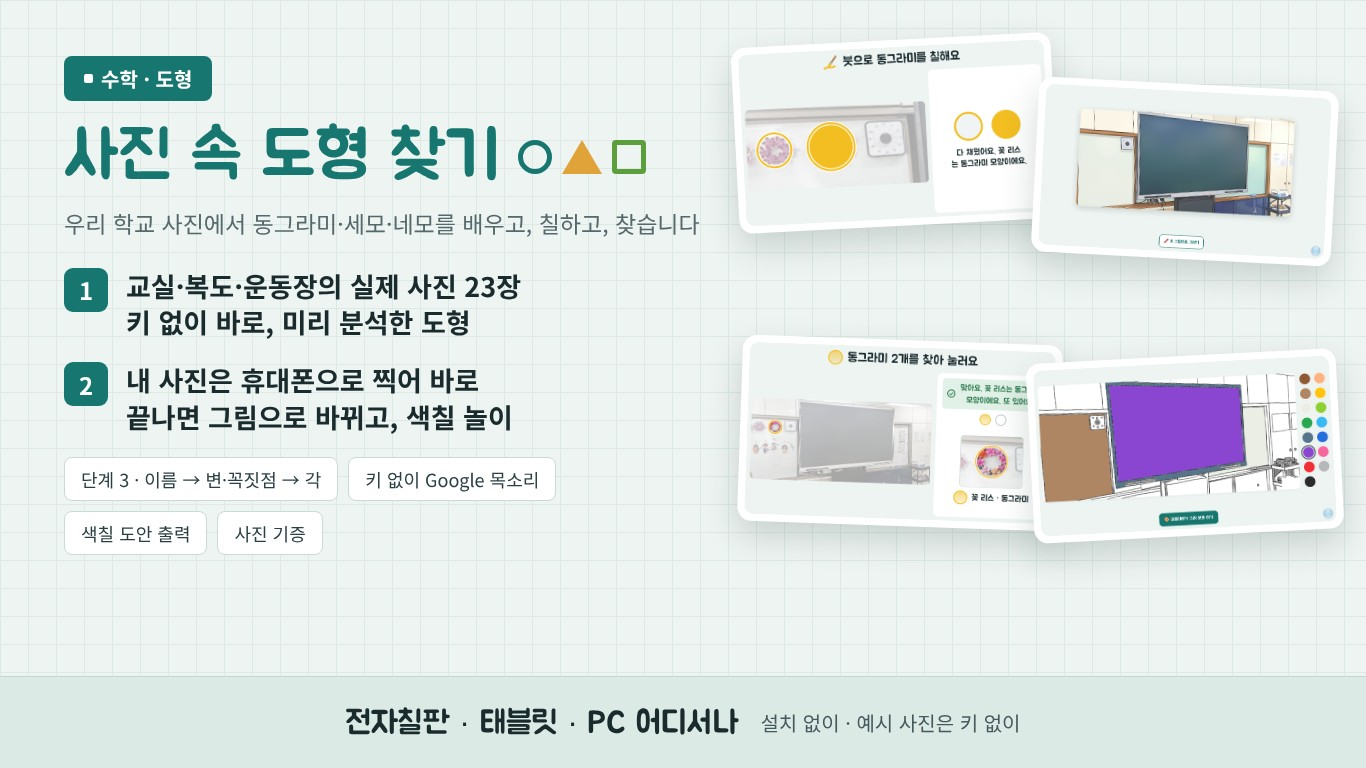
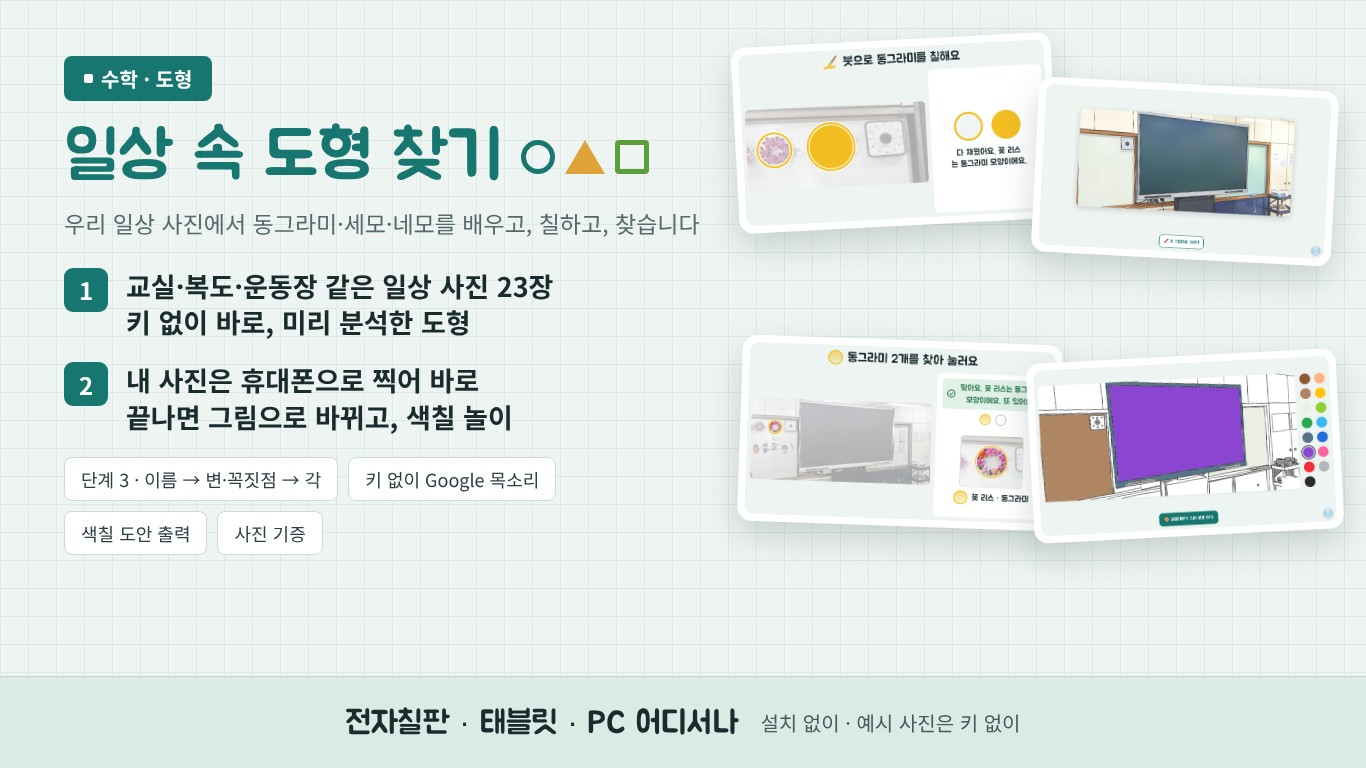
001 이름 '일상 속 도형 찾기'(앱 제목·불러오기·설명서·자세한 설명·홍보 그림·첫 화면 캡처, 파일 이름은 그대로)
Claude-Session: https://claude.ai/code/session_01CUt13BUndsbco2DGQb7Riu

diff --git a/001/shape-finder_manual.html b/001/shape-finder_manual.html
@@ -1,35 +1,62 @@
 <div style="max-width:820px;margin:0 auto;font-family:'Noto Sans KR',sans-serif;color:#1A2B2E;line-height:1.6;font-size:16px;">
+<p style="margin:0 0 14px;color:#55686B;font-size:15px;line-height:1.7;">교실&middot;복도&middot;운동장, 집 등 우리 일상에서 찍은 <b>실제 사진</b> 속 물건으로 동그라미&middot;세모&middot;네모를 배우고, 붓으로 칠하고, 직접 찾는 앱입니다. 다 하면 사진이 그림으로 바뀌고, 그 그림에 색칠할 수 있습니다.</p>
 
-<p style="margin:0 0 14px;color:#55686B;font-size:15px;line-height:1.7;">교실·복도·운동장에서 찍은 <b>실제 사진</b> 속 물건으로 동그라미·세모·네모를 배우고, 붓으로 칠하고, 직접 찾는 앱입니다. 다 하면 사진이 그림으로 바뀌고, 그 그림에 색칠할 수 있습니다.</p>
+<div style="background:#E6F2EF;border:1px solid #B8DCD4;border-radius:12px;padding:12px 16px;margin:0 0 14px;color:#1F4A45;font-size:15px;line-height:1.7;">예시 사진 23장은 바로 사용할 수 있습니다(도형&middot;목소리&middot;그림&middot;색칠 도안을 미리 만들어 두었습니다). 내 사진은 <b>휴대폰에서 받기</b>로 찍어 보내고, 처음 한 번만 선생님의 Gemini 키를 함께 넣어 사용하실 수 있습니다(Gemini 키는&nbsp;무료로 받을 수 있습니다).</div>
 
-<div style="background:#E6F2EF;border:1px solid #B8DCD4;border-radius:12px;padding:12px 16px;margin:0 0 14px;color:#1F4A45;font-size:15px;line-height:1.7;"><b>새 판(2026-10-22)</b>: 예시 사진 23장은 <b>키 없이</b> 바로 씁니다(도형·목소리·그림·색칠 도안을 미리 만들어 두었습니다). 내 사진은 <b>휴대폰에서 받기</b>로 찍어 보내고, 처음 한 번만 선생님의 Gemini 키를 함께 넣습니다(무료로 받을 수 있습니다).</div>
+<p style="margin:0 0 14px;"><img alt="일상 속 도형 찾기" src="https://shim-sung-hyun.github.io/web_app/001/shape-finder-promo.jpg" style="width:100%;border-radius:14px;display:block;" /></p>
 
-<p style="margin:0 0 14px;"><img src="https://shim-sung-hyun.github.io/web_app/001/shape-finder-promo.jpg" alt="사진 속 도형 찾기" style="width:100%;border-radius:14px;display:block;"></p>
-
-<p style="text-align:center;margin:0 0 22px;"><a href="https://www.charum.org/study/001/shape-finder.html" target="_blank" style="display:inline-block;background:#17766F;color:#fff;font-weight:700;font-size:21px;padding:14px 40px;border-radius:12px;text-decoration:none;">▶ 바로 열기</a></p>
+<p style="text-align:center;margin:0 0 22px;"><a href="https://www.charum.org/study/001/shape-finder.html" style="display:inline-block;background:#17766F;color:#fff;font-weight:700;font-size:21px;padding:14px 40px;border-radius:12px;text-decoration:none;" target="_blank">▶ 바로 열기</a></p>
 
 <table style="width:100%;border-collapse:separate;border-spacing:10px 0;table-layout:fixed;">
-<tr>
-<td style="vertical-align:top;text-align:center;"><img src="https://shim-sung-hyun.github.io/web_app/001/shape-finder01.jpg" alt="설정" style="width:100%;border-radius:10px;border:1px solid #CBDAD7;"><div style="margin-top:6px;"><span style="display:inline-block;width:30px;height:30px;line-height:30px;border-radius:7px;background:#17766F;color:#fff;font-weight:700;">1</span></div><div style="font-weight:700;font-size:18px;">단계 · 사진 고르고 → 시작</div><div style="font-size:14px;color:#55686B;">예시 사진은 누르기만</div></td>
-<td style="vertical-align:top;text-align:center;"><img src="https://shim-sung-hyun.github.io/web_app/001/shape-finder06.jpg" alt="배우고 칠하기" style="width:100%;border-radius:10px;border:1px solid #CBDAD7;"><div style="margin-top:6px;"><span style="display:inline-block;width:30px;height:30px;line-height:30px;border-radius:7px;background:#17766F;color:#fff;font-weight:700;">2</span></div><div style="font-weight:700;font-size:18px;">보고 · 칠하고 · 찾습니다</div><div style="font-size:14px;color:#55686B;">끝나면 저절로 다음</div></td>
-<td style="vertical-align:top;text-align:center;"><img src="https://shim-sung-hyun.github.io/web_app/001/shape-finder09.jpg" alt="그림과 색칠" style="width:100%;border-radius:10px;border:1px solid #CBDAD7;"><div style="margin-top:6px;"><span style="display:inline-block;width:30px;height:30px;line-height:30px;border-radius:7px;background:#17766F;color:#fff;font-weight:700;">3</span></div><div style="font-weight:700;font-size:18px;">그림으로 · 색칠</div><div style="font-size:14px;color:#55686B;">사진이 그림이 되고, 그 그림에 색칠</div></td>
-</tr>
+	<tbody>
+		<tr>
+			<td style="vertical-align:top;text-align:center;"><img alt="설정" src="https://shim-sung-hyun.github.io/web_app/001/shape-finder01.jpg" style="width:100%;border-radius:10px;border:1px solid #CBDAD7;" />
+			<div style="margin-top:6px;"><span style="display:inline-block;width:30px;height:30px;line-height:30px;border-radius:7px;background:#17766F;color:#fff;font-weight:700;">1</span></div>
+
+			<div style="font-weight:700;font-size:18px;">단계 &middot; 사진 고르고 &rarr; 시작</div>
+
+			<div style="font-size:14px;color:#55686B;">예시 사진은 누르기만</div>
+			</td>
+			<td style="vertical-align:top;text-align:center;"><img alt="배우고 칠하기" src="https://shim-sung-hyun.github.io/web_app/001/shape-finder06.jpg" style="width:100%;border-radius:10px;border:1px solid #CBDAD7;" />
+			<div style="margin-top:6px;"><span style="display:inline-block;width:30px;height:30px;line-height:30px;border-radius:7px;background:#17766F;color:#fff;font-weight:700;">2</span></div>
+
+			<div style="font-weight:700;font-size:18px;">보고 &middot; 칠하고 &middot; 찾습니다</div>
+
+			<div style="font-size:14px;color:#55686B;">끝나면 저절로 다음</div>
+			</td>
+			<td style="vertical-align:top;text-align:center;"><img alt="그림과 색칠" src="https://shim-sung-hyun.github.io/web_app/001/shape-finder09.jpg" style="width:100%;border-radius:10px;border:1px solid #CBDAD7;" />
+			<div style="margin-top:6px;"><span style="display:inline-block;width:30px;height:30px;line-height:30px;border-radius:7px;background:#17766F;color:#fff;font-weight:700;">3</span></div>
+
+			<div style="font-weight:700;font-size:18px;">그림으로 &middot; 색칠</div>
+
+			<div style="font-size:14px;color:#55686B;">사진이 그림이 되고, 그 그림에 색칠</div>
+			</td>
+		</tr>
+	</tbody>
 </table>
 
 <div style="background:#F2F7F5;border:1px solid #CBDAD7;border-radius:12px;padding:12px 16px;margin:22px 0 0;">
-<table style="width:100%;border-collapse:collapse;"><tr>
-<td style="width:34%;vertical-align:middle;padding-right:12px;"><img src="https://shim-sung-hyun.github.io/web_app/001/shape-finder10.jpg" alt="선생님 메뉴" style="width:100%;border-radius:8px;border:1px solid #CBDAD7;"></td>
-<td style="vertical-align:middle;"><div style="font-weight:700;font-size:18px;margin-bottom:4px;">선생님 메뉴</div>
-<div>오른쪽 아래 유리알 <b>3초</b> → 왼쪽 위 <b>점</b> 누르기</div>
-<div style="font-size:14px;color:#55686B;">단계 고르기 · 소리 · 설정 · 같은 사진 한 번 더 · 색칠 도안 출력 · 기록</div></td>
-</tr></table>
+<table style="width:100%;border-collapse:collapse;">
+	<tbody>
+		<tr>
+			<td style="width:34%;vertical-align:middle;padding-right:12px;"><img alt="선생님 메뉴" src="https://shim-sung-hyun.github.io/web_app/001/shape-finder10.jpg" style="width:100%;border-radius:8px;border:1px solid #CBDAD7;" /></td>
+			<td style="vertical-align:middle;">
+			<div style="font-weight:700;font-size:18px;margin-bottom:4px;">선생님 메뉴</div>
+
+			<div>오른쪽 아래 유리알 <b>3초</b> &rarr; 왼쪽 위 <b>점</b> 누르기</div>
+
+			<div style="font-size:14px;color:#55686B;">단계 고르기 &middot; 소리 &middot; 설정 &middot; 같은 사진 한 번 더 &middot; 색칠 도안 출력 &middot; 기록</div>
+			</td>
+		</tr>
+	</tbody>
+</table>
 </div>
 
 <ul style="margin:18px 0 0;padding-left:20px;font-size:15px;color:#2C4044;">
-<li><b>단계</b>: 1 도형 이름(동그라미·세모·네모) → 2 변과 꼭짓점 → 3 각과 직각.</li>
-<li><b>내 사진</b>은 그 기기에 보관되어 다음에는 키 없이 다시 씁니다. 좋은 사진은 <b>기증</b>하면 살펴본 뒤 모든 선생님의 예시 사진이 됩니다. 학생 얼굴·이름이 보이는 사진은 넣지 마십시오.</li>
-<li><b>끝 화면</b>은 사진이 그림으로 바뀌는 것(기본)과 <b>바로 색칠</b> 가운데 고릅니다. 색칠 도안은 종이로 출력할 수도 있습니다.</li>
+	<li><b>단계</b>: 1 도형 이름(동그라미&middot;세모&middot;네모) &rarr; 2 변과 꼭짓점 &rarr; 3 각과 직각.</li>
+	<li><b>내 사진</b>은 그 기기에 보관되어 다음에는 키 없이 다시 씁니다. 좋은 사진은 <b>기증</b>하시면 관리자가 살펴본 뒤&nbsp;예시 사진으로 활용하겠습니다.&nbsp;절대 <strong>학생 얼굴&middot;이름이 보이는 사진은 넣지 마십시오.</strong></li>
+	<li><b>끝 화면</b>은 사진이 그림으로 바뀌는 것(기본)과 <b>바로 색칠</b> 가운데 고릅니다. 색칠 도안은 종이로 출력할 수도 있습니다.</li>
 </ul>
 
-<p style="text-align:center;margin:22px 0 0;"><a href="https://shim-sung-hyun.github.io/web_app/001/shape-finder_guide.html" target="_blank" style="display:inline-block;border:2px solid #17766F;color:#17766F;font-weight:700;font-size:17px;padding:10px 26px;border-radius:12px;text-decoration:none;">자세한 설명 보기 →</a></p>
+<p style="text-align:center;margin:22px 0 0;"><a href="https://shim-sung-hyun.github.io/web_app/001/shape-finder_guide.html" style="display:inline-block;border:2px solid #17766F;color:#17766F;font-weight:700;font-size:17px;padding:10px 26px;border-radius:12px;text-decoration:none;" target="_blank">자세한 설명 보기 &rarr;</a></p>
 </div>

diff --git a/001/shape-finder.html b/001/shape-finder.html
@@ -3,7 +3,7 @@
 <head>
 <meta charset="utf-8">
 <meta name="viewport" content="width=device-width, initial-scale=1, viewport-fit=cover">
-<title>사진 속 도형 찾기</title>
+<title>일상 속 도형 찾기</title>
 <link rel="preconnect" href="https://fonts.googleapis.com">
 <link rel="preconnect" href="https://fonts.gstatic.com" crossorigin>
 <link rel="stylesheet" href="https://fonts.googleapis.com/css2?family=Jua&family=Noto+Sans+KR:wght@400;500;700&display=swap">
@@ -1593,7 +1593,7 @@ function showSetup(o={}){
   const sum=()=>[S.showSec+'초', S.paint?'칠하기 켬':'칠하기 끔', S.cartoonOn?'끝: 그림':'끝: 색칠', S.errorMode==='show'?'바로 정답':'한 번 더 기회', voiceName(S.engine)].join(' · ');
   const lv=[[1,'1단계 · 도형 이름','동그라미·세모·네모의 이름을 배우고 찾아요.'],[2,'2단계 · 변과 꼭짓점','원·삼각형·사각형의 변과 꼭짓점을 세어요.'],[3,'3단계 · 각','각을 세고 직각을 찾아요.']];
   main.innerHTML=`<section class="setup-page math">
-    <header class="m-head"><div class="m-title"><h1>사진 속 도형 찾기</h1><span class="m-mark" aria-hidden="true"><i class="o"></i><i class="t"></i><i class="s"></i></span></div>
+    <header class="m-head"><div class="m-title"><h1>일상 속 도형 찾기</h1><span class="m-mark" aria-hidden="true"><i class="o"></i><i class="t"></i><i class="s"></i></span></div>
       <p class="lead">사진 속 물건에서 도형을 찾아 배우고, 칠하고, 직접 찾아요.</p></header>
 
     <div class="card" id="levelCard"><h2><span class="n">1</span>단계</h2>

diff --git a/001/cloud-key.html b/001/cloud-key.html
@@ -106,7 +106,7 @@ a{color:var(--accent);font-weight:700}
     <li><b class="ui">들어 보기</b>로 목소리가 나오는지 확인합니다.</li>
   </ol>
   <p><b>전자칠판처럼 키를 붙여 넣기 어려운 기기</b>에서는 키 칸 옆 <b class="ui">📱 휴대폰으로 받기</b>를 누르세요. 번호 4자리와 QR이 나오면 휴대폰으로 QR을 찍고(또는 <b>shim-sung-hyun.github.io/web_app/key-send.html</b>을 열고), 번호와 키를 넣어 <b class="ui">보내기</b>를 누릅니다. 키는 휴대폰에서 잠가서 보내므로 중계 서버도 볼 수 없고, 전자칠판이 받는 즉시 지워집니다. 받은 키는 그 기기에 저장됩니다(<b class="ui">이 기기에 키 저장</b>이 켜짐).</p>
-  <p class="small">같은 사이트의 다른 웹앱(사진 속 도형 찾기, 무지개 색 찾기 등)에 저장한 키가 있으면 자동으로 채워집니다.</p>
+  <p class="small">같은 사이트의 다른 웹앱(일상 속 도형 찾기, 무지개 색 찾기 등)에 저장한 키가 있으면 자동으로 채워집니다.</p>
 </div>
 
 <div class="box warn">

diff --git a/003/cloud-key.html b/003/cloud-key.html
@@ -106,7 +106,7 @@ a{color:var(--accent);font-weight:700}
     <li><b class="ui">들어 보기</b>로 목소리가 나오는지 확인합니다.</li>
   </ol>
   <p><b>전자칠판처럼 키를 붙여 넣기 어려운 기기</b>에서는 키 칸 옆 <b class="ui">📱 휴대폰으로 받기</b>를 누르세요. 번호 4자리와 QR이 나오면 휴대폰으로 QR을 찍고(또는 <b>shim-sung-hyun.github.io/web_app/key-send.html</b>을 열고), 번호와 키를 넣어 <b class="ui">보내기</b>를 누릅니다. 키는 휴대폰에서 잠가서 보내므로 중계 서버도 볼 수 없고, 전자칠판이 받는 즉시 지워집니다. 받은 키는 그 기기에 저장됩니다(<b class="ui">이 기기에 키 저장</b>이 켜짐).</p>
-  <p class="small">같은 사이트의 다른 웹앱(사진 속 도형 찾기, 무지개 색 찾기 등)에 저장한 키가 있으면 자동으로 채워집니다.</p>
+  <p class="small">같은 사이트의 다른 웹앱(일상 속 도형 찾기, 무지개 색 찾기 등)에 저장한 키가 있으면 자동으로 채워집니다.</p>
 </div>
 
 <div class="box warn">

diff --git a/004/cloud-key.html b/004/cloud-key.html
@@ -107,7 +107,7 @@ a{color:var(--accent);font-weight:700}
     <li><b class="ui">들어 보기</b>로 목소리가 나오는지 확인합니다.</li>
   </ol>
   <p><b>전자칠판처럼 키를 붙여 넣기 어려운 기기</b>에서는 키 칸 옆 <b class="ui">📱 휴대폰으로 받기</b>를 누르세요. 번호 4자리와 QR이 나오면 휴대폰으로 QR을 찍고(또는 <b>shim-sung-hyun.github.io/web_app/key-send.html</b>을 열고), 번호와 키를 넣어 <b class="ui">보내기</b>를 누릅니다. 키는 휴대폰에서 잠가서 보내므로 중계 서버도 볼 수 없고, 전자칠판이 받는 즉시 지워집니다. 받은 키는 그 기기에 저장됩니다(<b class="ui">이 기기에 키 저장</b>이 켜짐).</p>
-  <p class="small">같은 사이트의 다른 웹앱(사진 속 도형 찾기, 무지개 색 찾기 등)에 저장한 키가 있으면 자동으로 채워집니다.</p>
+  <p class="small">같은 사이트의 다른 웹앱(일상 속 도형 찾기, 무지개 색 찾기 등)에 저장한 키가 있으면 자동으로 채워집니다.</p>
 </div>
 
 <div class="box warn">

diff --git a/006/cloud-key.html b/006/cloud-key.html
@@ -106,7 +106,7 @@ a{color:var(--accent);font-weight:700}
     <li><b class="ui">들어 보기</b>로 목소리가 나오는지 확인합니다.</li>
   </ol>
   <p><b>전자칠판처럼 키를 붙여 넣기 어려운 기기</b>에서는 키 칸 옆 <b class="ui">📱 휴대폰으로 받기</b>를 누르세요. 번호 4자리와 QR이 나오면 휴대폰으로 QR을 찍고(또는 <b>shim-sung-hyun.github.io/web_app/key-send.html</b>을 열고), 번호와 키를 넣어 <b class="ui">보내기</b>를 누릅니다. 키는 휴대폰에서 잠가서 보내므로 중계 서버도 볼 수 없고, 전자칠판이 받는 즉시 지워집니다. 받은 키는 그 기기에 저장됩니다(<b class="ui">이 기기에 키 저장</b>이 켜짐).</p>
-  <p class="small">같은 사이트의 다른 웹앱(사진 속 도형 찾기, 무지개 색 찾기 등)에 저장한 키가 있으면 자동으로 채워집니다.</p>
+  <p class="small">같은 사이트의 다른 웹앱(일상 속 도형 찾기, 무지개 색 찾기 등)에 저장한 키가 있으면 자동으로 채워집니다.</p>
 </div>
 
 <div class="box warn">

diff --git a/007/cloud-key.html b/007/cloud-key.html
@@ -105,7 +105,7 @@ a{color:var(--accent);font-weight:700}
     <li><b class="ui">들어 보기</b>로 목소리가 나오는지 확인합니다.</li>
   </ol>
   <p><b>전자칠판처럼 키를 붙여 넣기 어려운 기기</b>에서는 키 칸 옆 <b class="ui">📱 휴대폰으로 받기</b>를 누르세요. 번호 4자리와 QR이 나오면 휴대폰으로 QR을 찍고(또는 <b>shim-sung-hyun.github.io/web_app/key-send.html</b>을 열고), 번호와 키를 넣어 <b class="ui">보내기</b>를 누릅니다. 키는 휴대폰에서 잠가서 보내므로 중계 서버도 볼 수 없고, 전자칠판이 받는 즉시 지워집니다. 받은 키는 그 기기에 저장됩니다(<b class="ui">이 기기에 키 저장</b>이 켜짐).</p>
-  <p class="small">같은 사이트의 다른 웹앱(사진 속 도형 찾기, 무지개 색 찾기 등)에 저장한 키가 있으면 자동으로 채워집니다.</p>
+  <p class="small">같은 사이트의 다른 웹앱(일상 속 도형 찾기, 무지개 색 찾기 등)에 저장한 키가 있으면 자동으로 채워집니다.</p>
 </div>
 
 <div class="box warn">

diff --git a/001/line-maker.html b/001/line-maker.html
@@ -37,7 +37,7 @@ button:disabled{opacity:.5;cursor:default}
 <body>
 <main>
 <h1>예시 그림 색칠 도안 만들기</h1>
-<p class="lead">사진 속 도형 찾기(001)의 예시 그림마다 <b>색칠 도안</b>(바로 색칠·출력용 선 그림)을 Gemini로 그리는 화면이에요. 신발장 도안을 본보기로 함께 보내 모두 같은 꼴로 그려요. 앱을 만든 사람이 한 번만 해요.</p>
+<p class="lead">일상 속 도형 찾기(001)의 예시 그림마다 <b>색칠 도안</b>(바로 색칠·출력용 선 그림)을 Gemini로 그리는 화면이에요. 신발장 도안을 본보기로 함께 보내 모두 같은 꼴로 그려요. 앱을 만든 사람이 한 번만 해요.</p>
 <div class="card note">
   ① 결제를 연결한 프로젝트의 Gemini 키가 필요해요(Gemini 그림은 무료 등급이 없어요). 한 장 약 50~90원 → 5장 약 250~450원.<br>
   ② <b>모두 그리기</b> → 마음에 안 드는 것만 <b>다시</b> → 쓸 그림에 <b>쓰기</b> 표시 → <b>zip 받기</b> → 받은 zip을 Claude에게 보내 주세요.<br>

diff --git a/001/server-loader.html b/001/server-loader.html
@@ -1,10 +1,10 @@
 <!doctype html>
 <html lang="ko"><head><meta charset="utf-8"><meta name="viewport" content="width=device-width,initial-scale=1">
-<title>사진 속 도형 찾기</title>
+<title>일상 속 도형 찾기</title>
 <style>body{margin:0;background:#FAF7F0;font-family:'Noto Sans KR','Apple SD Gothic Neo',sans-serif;color:#2C3E5C;display:flex;align-items:center;justify-content:center;height:100vh}</style>
 </head><body><p id="m">불러오고 있습니다…</p>
 <script>
-/* 사진 속 도형 찾기 불러오기: 이 파일만 내 서버에 둔다. 앱 본문은 GitHub에서 가져와 이 주소에서 펼친다(기록은 이 기기·이 주소에). */
+/* 일상 속 도형 찾기 불러오기: 이 파일만 내 서버에 둔다. 앱 본문은 GitHub에서 가져와 이 주소에서 펼친다(기록은 이 기기·이 주소에). */
 (function () {
   var APP = 'https://shim-sung-hyun.github.io/web_app/001/shape-finder.html';
   fetch(APP, { cache: 'no-cache' }).then(function (r) { if (!r.ok) throw 0; return r.text(); })

diff --git a/001/art-maker.html b/001/art-maker.html
@@ -37,7 +37,7 @@ button:disabled{opacity:.5;cursor:default}
 <body>
 <main>
 <h1>예시 사진 끝 그림 만들기</h1>
-<p class="lead">사진 속 도형 찾기(001)의 예시 사진마다 <b>끝 화면 그림</b>(색칠하기 바탕)을 Gemini로 그리는 화면이에요. 앱을 만든 사람이 한 번만 해요. 수업하는 선생님은 쓰지 않아요.</p>
+<p class="lead">일상 속 도형 찾기(001)의 예시 사진마다 <b>끝 화면 그림</b>(색칠하기 바탕)을 Gemini로 그리는 화면이에요. 앱을 만든 사람이 한 번만 해요. 수업하는 선생님은 쓰지 않아요.</p>
 <div class="card note">
   ① 결제를 연결한 프로젝트의 Gemini 키가 필요해요(Gemini 그림은 무료 등급이 없어요). 한 장 약 50원 → 18장 약 1,000원.<br>
   ② <b>모두 그리기</b> → 마음에 안 드는 것만 <b>다시</b> → 쓸 그림에 <b>쓰기</b> 표시 → <b>zip 받기</b> → 받은 zip을 Claude에게 보내 주세요.<br>

diff --git a/001/shape-finder_guide.html b/001/shape-finder_guide.html
@@ -3,7 +3,7 @@
 <head>
 <meta charset="utf-8">
 <meta name="viewport" content="width=device-width,initial-scale=1">
-<title>사진 속 도형 찾기 — 자세한 설명</title>
+<title>일상 속 도형 찾기 — 자세한 설명</title>
 <link href="https://fonts.googleapis.com/css2?family=Jua&family=Noto+Sans+KR:wght@400;700&display=swap" rel="stylesheet">
 <style>
 :root{--ink:#1A2B2E;--sub:#55686B;--line:#CBDAD7;--pri:#17766F;--soft:#E6F2EF;--bg:#EEF4F2}
@@ -30,7 +30,7 @@ a{color:var(--pri)}
 </head>
 <body>
 <main>
-<h1>사진 속 도형 찾기</h1>
+<h1>일상 속 도형 찾기</h1>
 <p class="lead">자세한 설명 · 2026-10-22 판</p>
 <p><a class="go" href="https://www.charum.org/study/001/shape-finder.html" target="_blank">▶ 바로 열기</a></p>
 

diff --git a/001/shape-finder-beta.html b/001/shape-finder-beta.html
@@ -1,6 +1,6 @@
 <!doctype html>
 <html lang="ko"><head><meta charset="utf-8"><meta name="viewport" content="width=device-width,initial-scale=1">
-<title>사진 속 도형 찾기</title>
+<title>일상 속 도형 찾기</title>
 <meta http-equiv="refresh" content="0; url=https://shim-sung-hyun.github.io/web_app/001/shape-finder.html">
 </head><body style="font-family:sans-serif;padding:24px">베타는 정식판으로 합쳤습니다. <a href="https://shim-sung-hyun.github.io/web_app/001/shape-finder.html">정식판으로 가기</a>
 <script>location.replace('https://shim-sung-hyun.github.io/web_app/001/shape-finder.html'+location.hash);</script></body></html>
